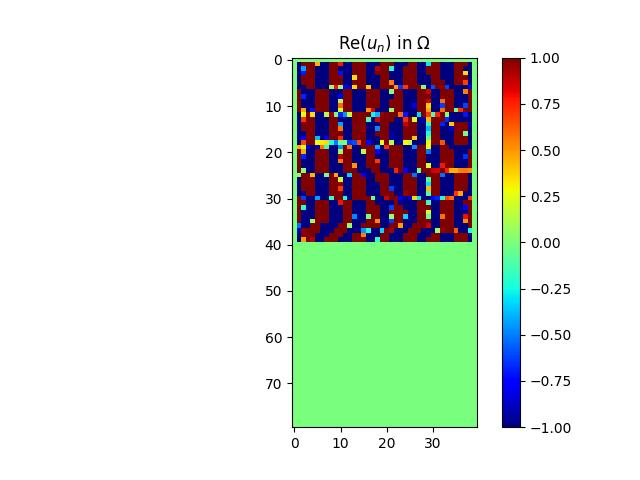
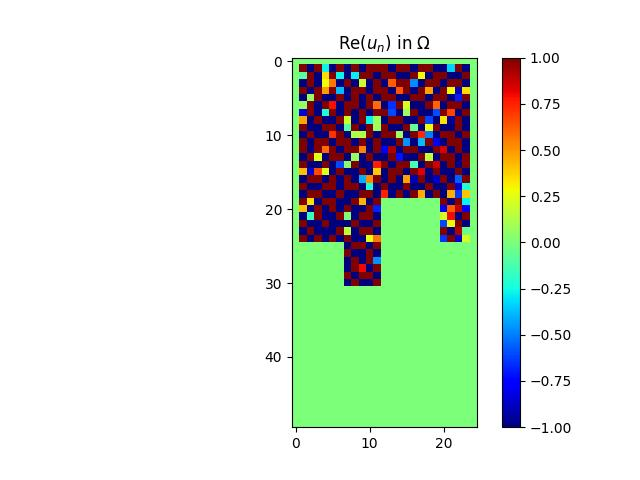
changements chi opti

diff --git a/demo_control_polycopie2023.py b/demo_control_polycopie2023.py
@@ -151,14 +151,22 @@ def compute_projected(chi, domain, V_obj):
 
     return chi
 
-#def chi_zero_ou_un (M, N, chi, S, V_obj, list_rob) :
-#    for el in list_rob :
-#        el[1]=chi[el[0]]
-#    list_rob=sorted(list_rob, key=lambda couple : couple[1], reverse=True)
-#    chiprim = np.zeros((M,N))
-#    for i in range(int(S*V_obj)) :
-#        chiprim[list_rob[i][0]]=1
-#    return chiprim
+def chi_zero_ou_un (chi,domain, V_obj) :
+    (M, N) = np.shape(domain)
+    list_rob=[]
+    S = 0
+    for i in range(M):
+        for j in range(N):
+            if domain[i, j] == _env.NODE_ROBIN:
+                S = S + 1
+                list_rob.append([(i,j),0])
+    for el in list_rob :
+        el[1]=chi[el[0]]
+    list_rob=sorted(list_rob, key=lambda couple : couple[1], reverse=True)
+    chiprim = np.zeros((M,N))
+    for i in range(int(S*V_obj)) :
+        chiprim[list_rob[i][0]]=1
+    return chiprim
 
 
 
@@ -175,7 +183,7 @@ def your_optimization_procedure(domain_omega, spacestep, wavenumber, f, f_dir, f
     """
     k = 0
     (M, N) = np.shape(domain_omega)
-    numb_iter = 100
+    numb_iter = 75
     energy = np.zeros((numb_iter, 1), dtype=np.float64)
     is_good = True
     while k < numb_iter:
@@ -244,7 +252,7 @@ def your_optimization_procedure_multi(domain_omega, spacestep, wavenumber, f, f_
     """
     k = 0
     (M, N) = np.shape(domain_omega)
-    numb_iter = 50
+    numb_iter = 75
     energy = np.zeros((numb_iter, 1), dtype=np.float64)
     is_good = True
     while k < numb_iter:
@@ -345,7 +353,7 @@ if __name__ == '__main__':
     # ----------------------------------------------------------------------
     # -- set parameters of the geometry
 
-    N = 25  # number of points along x-axis
+    N = 40  # number of points along x-axis
     M = 2 * N  # number of points along y-axis
     level = 0 # level of the fractal
     spacestep = 1.0 / N  # mesh size
@@ -477,7 +485,7 @@ if __name__ == '__main__':
     #postprocessing._plot_error(err)
     #postprocessing._plot_energy_history(energy)
 
-    postprocessing._plot_controled_solution(us[min_chi_index], chis[min_chi_index])
+    postprocessing._plot_controled_solution(us[min_chi_index], chi_zero_ou_un(chis[min_chi_index],domain_omega, V_obj))
 
     plt.scatter(freq, min_energies)
     plt.xlabel(r"fréquence $f$")

diff --git a/best_chi.py b/best_chi.py
@@ -14,7 +14,7 @@ import postprocessing
 #import solutions
 np.set_printoptions(threshold=np.inf)
 
-from demo_control_polycopie2023 import your_optimization_procedure_multi
+from demo_control_polycopie2023 import your_optimization_procedure_multi, chi_zero_ou_un
 
 if __name__ == '__main__':
 
@@ -25,7 +25,7 @@ if __name__ == '__main__':
 
     N = 40  # number of points along x-axis
     M = 2 * N  # number of points along y-axis
-    level = 0 # level of the fractal
+    level = 1 # level of the fractal
     spacestep = 1.0 / N  # mesh size
 
     # -- set parameters of the partial differential equation
@@ -133,7 +133,7 @@ if __name__ == '__main__':
 
     # -- plot chi, u, and energy
     postprocessing._plot_uncontroled_solution(sum(u0s), chi0)
-    postprocessing._plot_controled_solution(sum_un, chin)
+    postprocessing._plot_controled_solution(sum_un, chi_zero_ou_un(chin,domain_omega,V_obj))
     err = sum_un - u0
     postprocessing._plot_error(err)
     postprocessing._plot_energy_history(energy)
